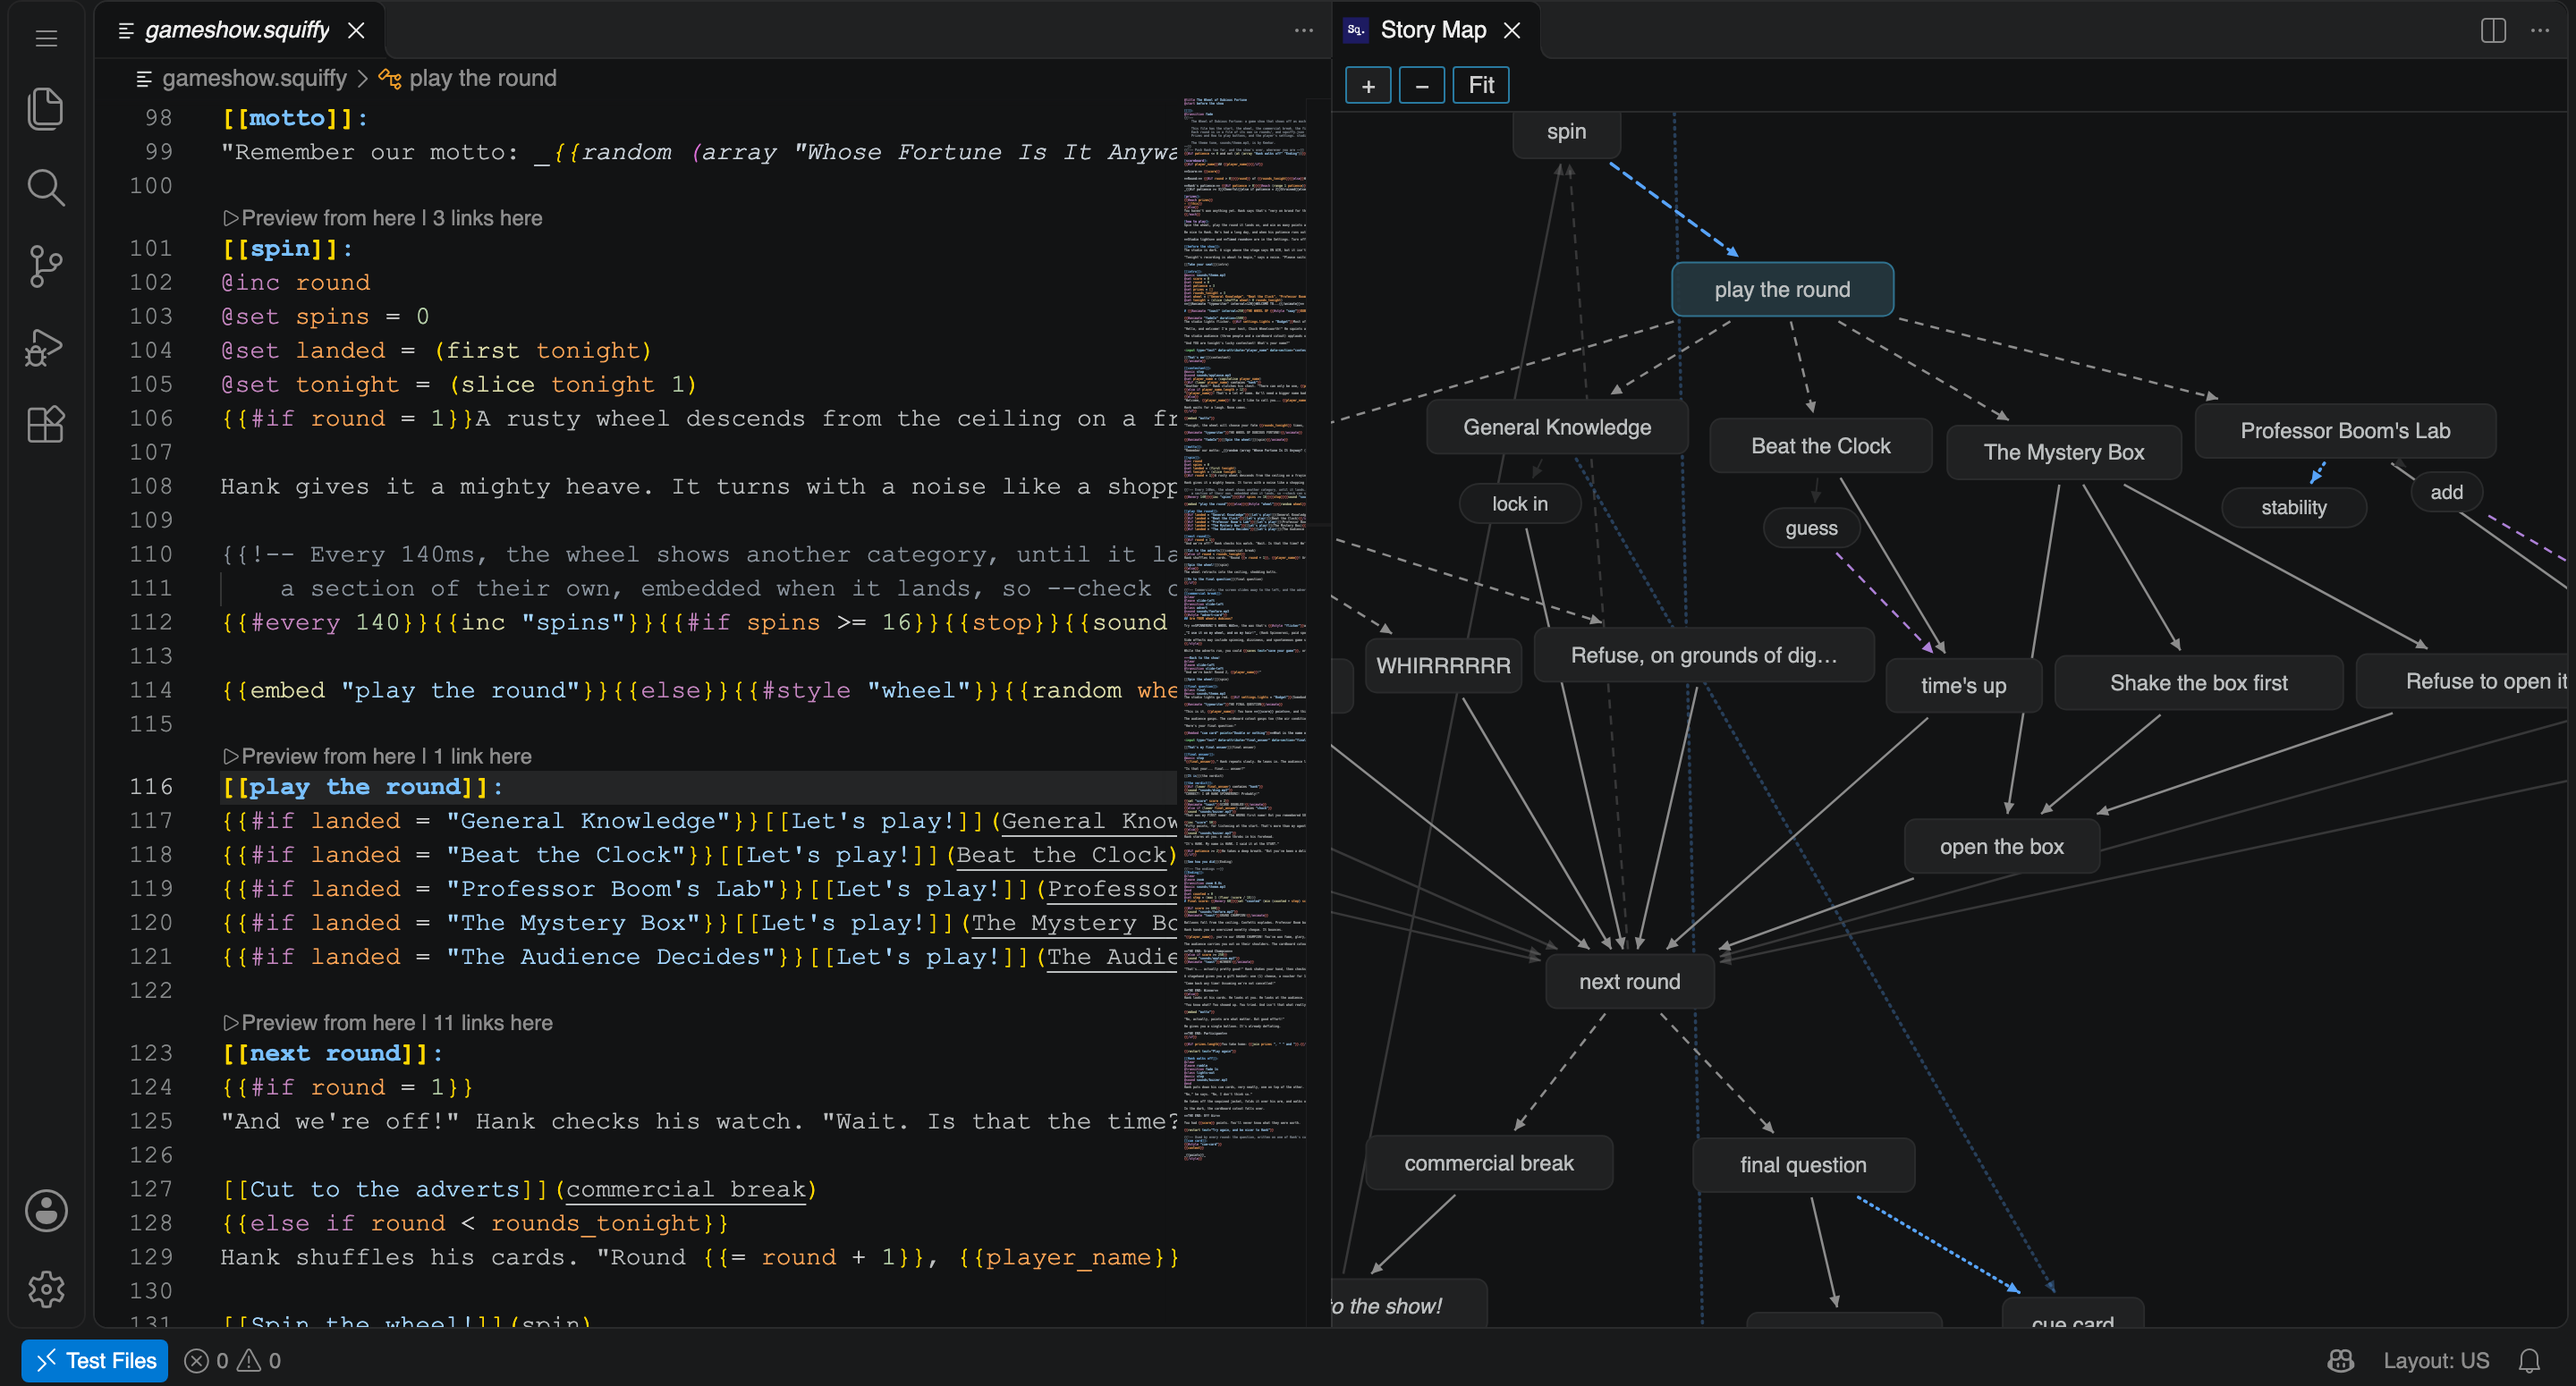
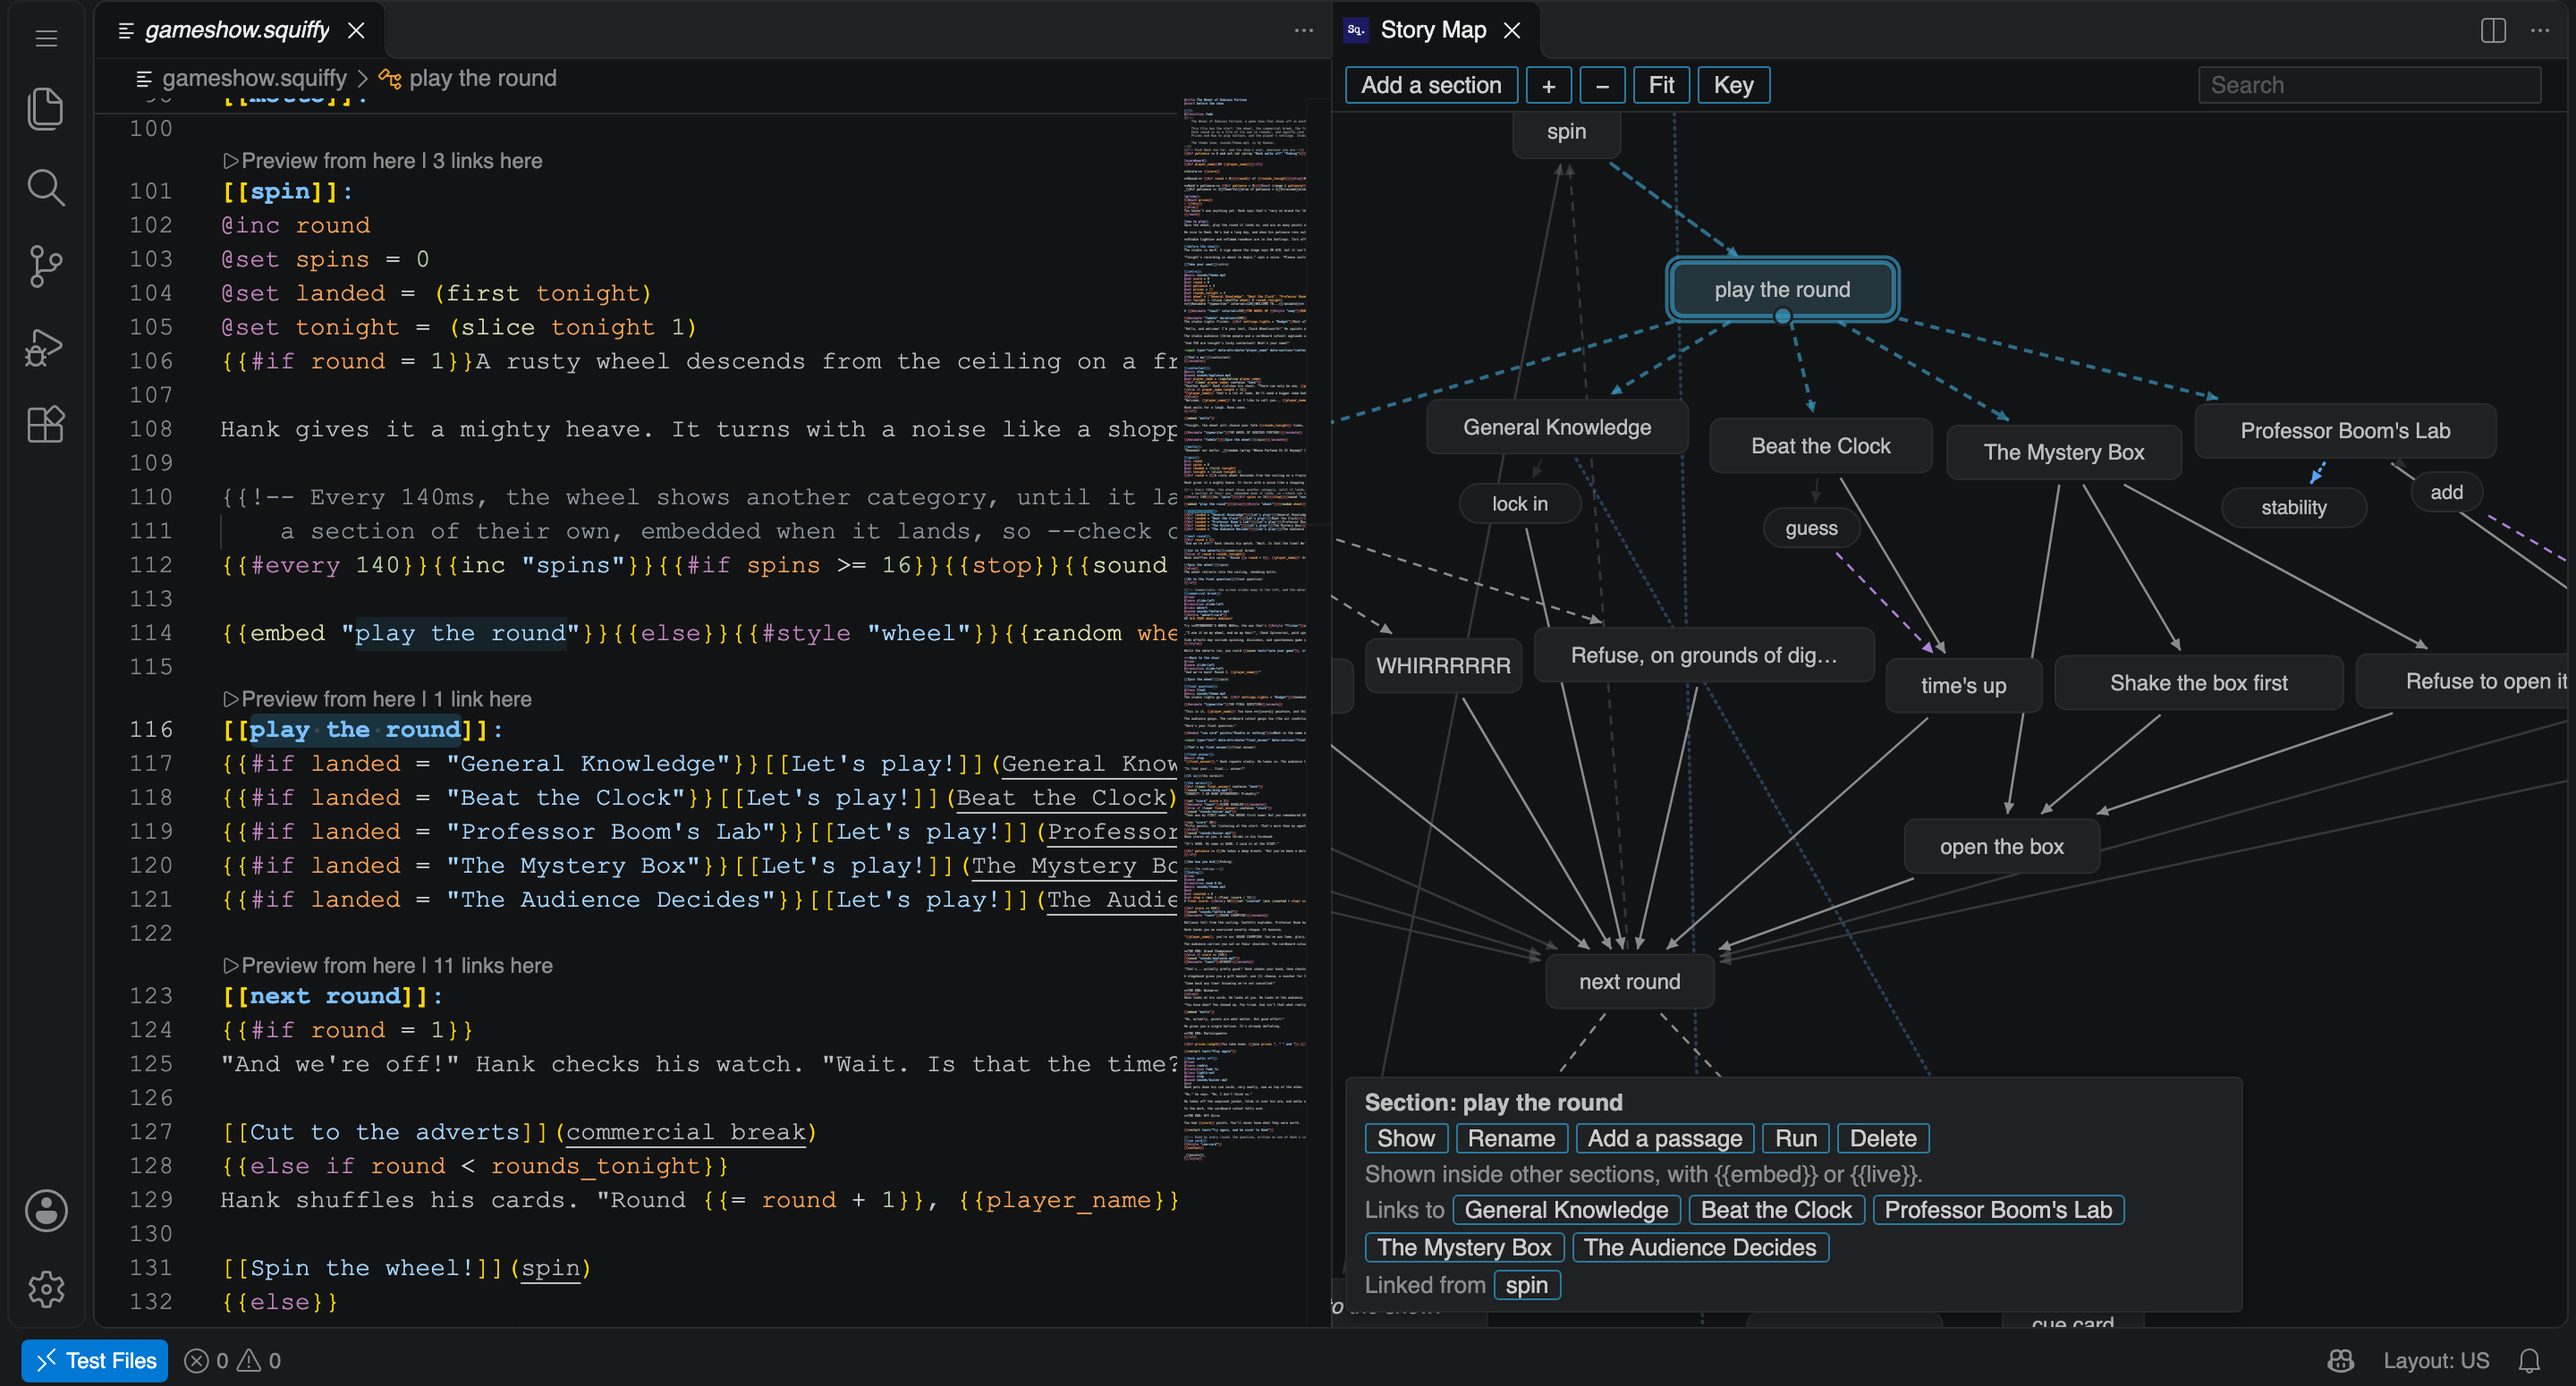
docs: retake the VS Code story map screenshot
The story map's toolbar has gained Add a section, Key and a search box since
the screenshot was taken, and the selected box now has a details panel, so the
capture selects the cursor's section to show it.

diff --git a/e2e/screenshots/vscode.capture.ts b/e2e/screenshots/vscode.capture.ts
@@ -65,6 +65,9 @@ test("the story map beside the script", async ({ page }) => {
     // Room for the map, and close enough to read: the whole game show is too small to
     await command(page, "View: Close Primary Side Bar");
     for (let i = 0; i < 5; i++) await map.getByRole("button", { name: "Zoom in" }).click();
+    // Selected, for its details along the bottom of the map
+    await map.locator(".gm-node.current").click();
+    await expect(map.getByRole("region", { name: "Selected section" })).toBeVisible();
     await settle(page);
     await page.addStyleTag({ content: ".monaco-sash { visibility: hidden !important; }" });
     await capture(page, "vscode-story-map", { setTheme: setTheme(page), clip: await belowTitleBar(page) });
